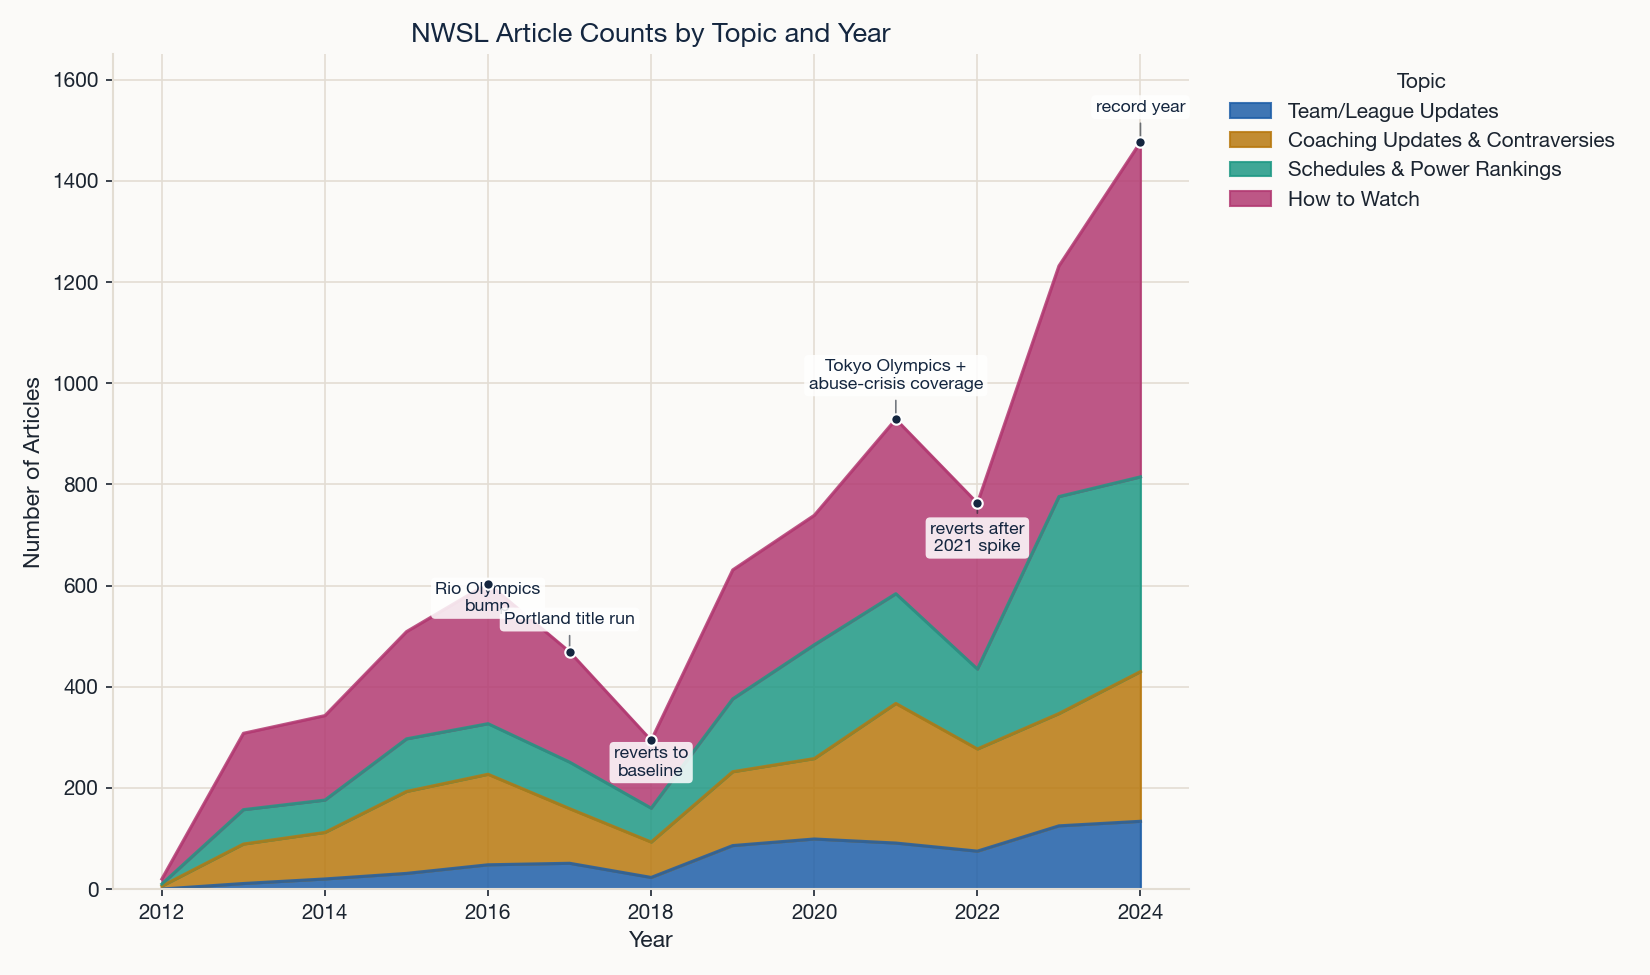
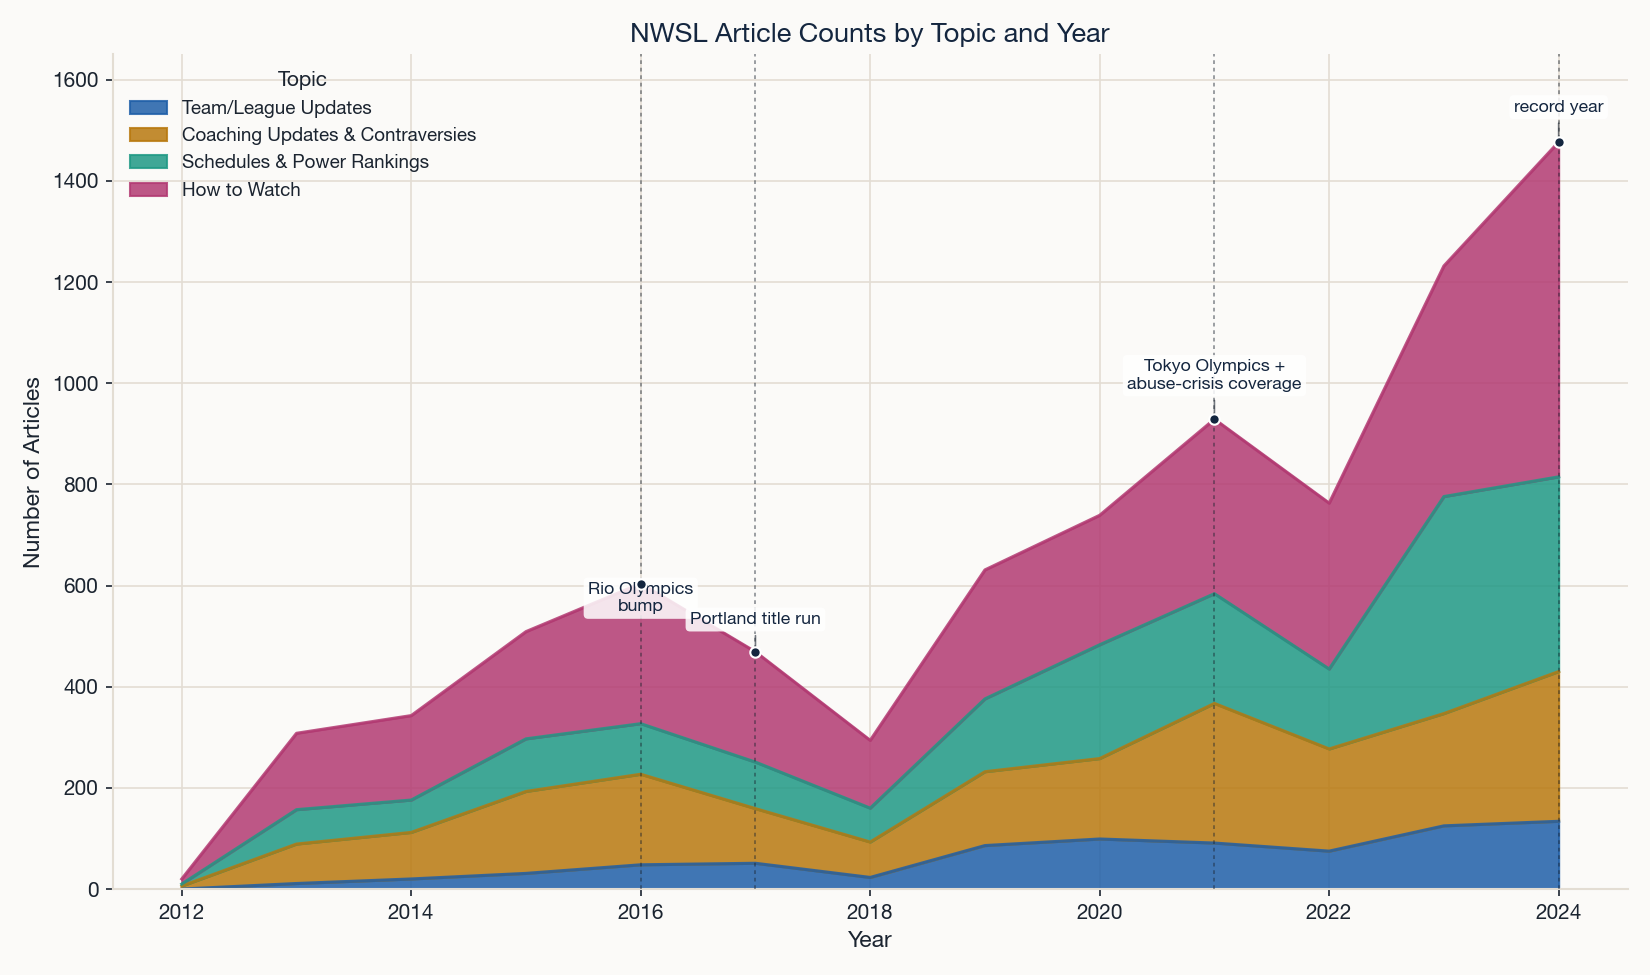
adding topic analysis

diff --git a/site/src/sections/ResultsSection.tsx b/site/src/sections/ResultsSection.tsx
@@ -96,28 +96,27 @@ export default function ResultsSection() {
           </div>
         </div>
 
-        {/* Closing beat: broadens from stadium attendance to league-wide media culture.
-            Topic modeling (coverage composition) and YouTube (upload growth) side by side
-            as two views of the same "attention is growing and diversifying" story. */}
+        {/* Topic modeling: coverage volume + composition, plus the star-power finding */}
         <div className="mb-14">
-          <p className="font-mono-label text-xs text-[var(--color-primary)] mb-1">Figures 5–6</p>
+          <FigureCard
+            src={topicMixByYear}
+            alt="LDA topic modeling of NWSL headlines shows coverage volume rising since 2018, with a shift from 'how to watch' logistics toward coaching storylines and competitive coverage"
+            label="Figure 5"
+            caption="LDA topic tagging on 8,328 headlines (2012-2024, 4 topics) shows coverage nearly tripling since 2018, with the mix shifting from 'how to watch' logistics toward coaching storylines and competitive coverage. Notably, the model — with no notion of 'players' — surfaced Megan Rapinoe and Alex Morgan's names among its own topic-defining vocabulary, a sign of how much individual star power still drives NWSL coverage."
+          />
+        </div>
+
+        {/* Closing beat: broadens from stadium attendance to league-wide culture */}
+        <div className="mb-14">
+          <p className="font-mono-label text-xs text-[var(--color-primary)] mb-1">Figure 6</p>
           <p className="font-serif-heading text-lg font-semibold text-[var(--color-primary-deep)] mb-3">
-            Demand for women's soccer content is growing and diversifying, a sign of a broader cultural shift that will continue to lift attendance.
+            Demand is growing for women's soccer content, a sign of a broader cultural shift that will continue to lift attendance.
           </p>
-          <div className="grid grid-cols-1 md:grid-cols-2 gap-6">
-            <FigureCard
-              src={topicMixByYear}
-              alt="LDA topic modeling of NWSL headlines shows coverage volume rising since 2018, with dips after Olympic and crisis-driven spikes, and a shift from 'how to watch' logistics toward coaching storylines and competitive coverage"
-              label="Figure 5"
-              caption="LDA topic tagging on 8,328 headlines (2012-2024, 4 topics) shows coverage nearly tripling since 2018's post-Olympic lull, with the mix shifting from 'how to watch' logistics toward coaching storylines and competitive coverage. The 2018 and 2022 dips aren't missing data — both years simply revert after an external-event spike (the 2016 Rio Olympics and Portland's title run; the 2021 Tokyo Olympics and the NWSL abuse-crisis coverage). Notably, the model — with no notion of 'players' — surfaced Megan Rapinoe and Alex Morgan's names among its own topic-defining vocabulary, a sign of how much individual star power still drives NWSL coverage."
-            />
-            <FigureCard
-              src={youtubeRise}
-              alt="YouTube subscriber and view growth for women's soccer channels accelerates around major women's soccer milestones"
-              label="Figure 6"
-              caption="Independent women's-soccer media now outdraws the league's own channel: Just Women's Sports has 300K YouTube subscribers to the NWSL's official 250K, with four more dedicated channels behind them. Article coverage itself spikes around events the league doesn't control — the November 2024 peak (291 articles) was driven by USWNT-England buzz and expansion-city announcements, not a game result."
-            />
-          </div>
+          <FigureCard
+            src={youtubeRise}
+            alt="YouTube upload growth for women's soccer channels accelerates as independent channels launch and overtake the NWSL's own"
+            caption="Independent women's-soccer media now outdraws the league's own channel: Just Women's Sports has 300K YouTube subscribers to the NWSL's official 250K, with four more dedicated channels behind them, launched between 2019 and 2024. Independents' combined upload volume overtook the NWSL's own channel in 2021 and has kept pulling away since. Article coverage itself spikes around events the league doesn't control — the November 2024 peak (291 articles) was driven by USWNT-England buzz and expansion-city announcements, not a game result."
+          />
         </div>
 
         {/* Supporting figures

diff --git a/site/src/sections/TakeawaySection.tsx b/site/src/sections/TakeawaySection.tsx
@@ -30,7 +30,10 @@ export default function TakeawaySection() {
          <div className="max-w-3xl mt-4 border-l-2 border-[var(--color-accent)] pl-5 py-1">
           <p className="font-mono-label text-[11px] text-[var(--color-primary)] mb-2">Next Steps —</p>
           <p className="leading-relaxed text-[var(--color-ink)]/85">
-            
+            These results show a correlation between stadium investment and attendance growth, but they don't prove causation.
+            Next steps would include a more robust attendance analysis, which is attempted in the second iteration of this project.
+            It would also be useful to tie together the two halves of this analysis, testing whether media growth predicts attendance gains the following season.
+            It is important to not that this analysis is somewhat limited by the facts that the NWSL is a young league, and that the COVID-19 pandemic disrupted the 2020 and 2021 seasons.
           </p>
         </div>
       </div>
